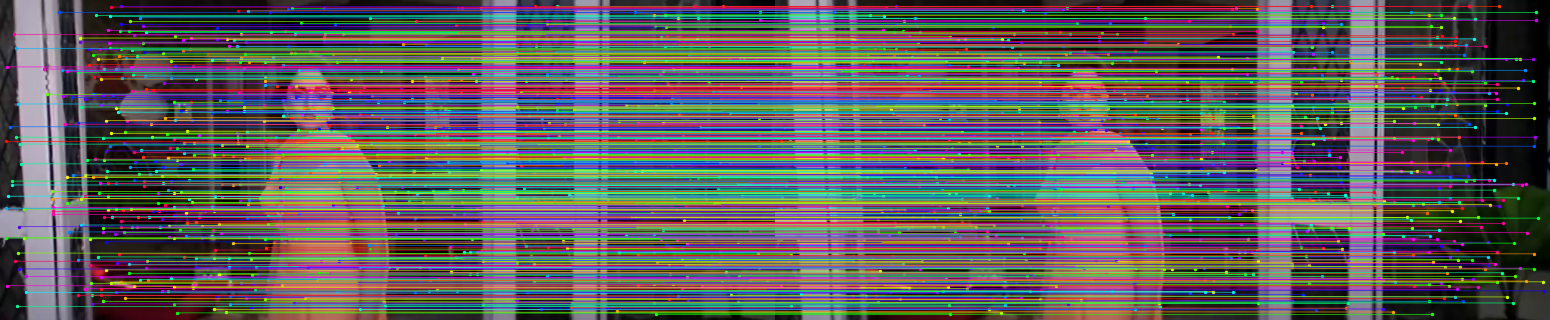
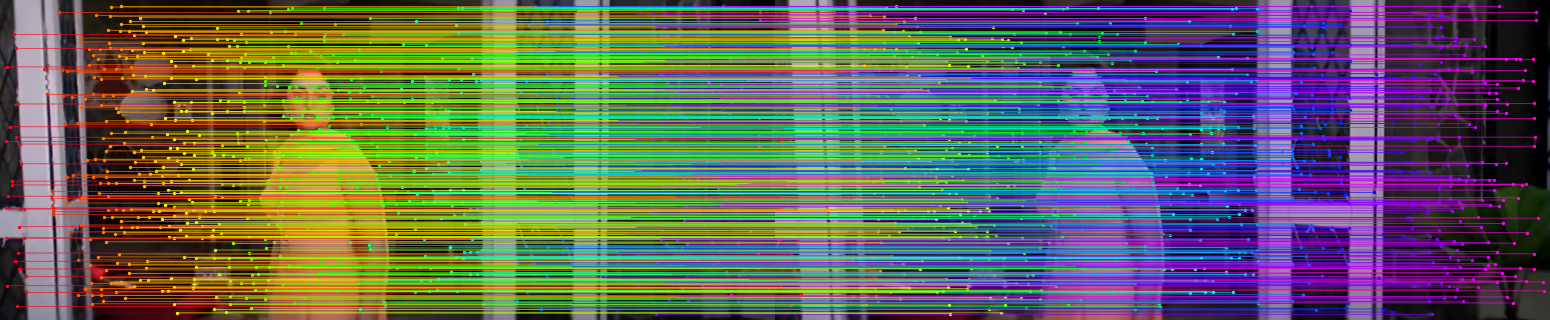
Update visualization to use rainbow color gradient based on x-coordinates

diff --git a/demo/scripts/extended_gap_analysis.py b/demo/scripts/extended_gap_analysis.py
@@ -130,10 +130,12 @@ def run_analysis():
         matched_kpts0 = kpts0[idx0]
         matched_kpts1 = kpts1[idx1]
         
-        # Use a colormap for colorful connections
-        cmap = plt.get_cmap('hsv')
-        vis_colors = cmap(np.linspace(0, 1, len(matched_kpts0)))
-        np.random.shuffle(vis_colors)
+        # Use a rainbow colormap based on x-coordinate of matched_kpts0
+        cmap = plt.get_cmap('gist_rainbow')
+        x0 = matched_kpts0[:, 0]
+        x0_min, x0_max = x0.min(), x0.max()
+        x0_norm = (x0 - x0_min) / (x0_max - x0_min + 1e-6)
+        vis_colors = cmap(x0_norm)
         
         for i, (p0, p1) in enumerate(zip(matched_kpts0, matched_kpts1)):
             plt.plot([p0[0], p1[0] + w0], [p0[1], p1[1]], color=vis_colors[i], linewidth=0.75, alpha=0.6)

diff --git a/demo/scripts/run_lightglue_jax_pipeline.py b/demo/scripts/run_lightglue_jax_pipeline.py
@@ -144,10 +144,13 @@ def run_pipeline():
     plt.imshow(combined_img)
     plt.axis('off')
     
-    # Use a colormap for colorful connections
-    cmap = plt.get_cmap('hsv')
-    colors = cmap(np.linspace(0, 1, len(matched_kpts0)))
-    np.random.shuffle(colors) # Shuffle to differentiate nearby points
+    # Use a rainbow colormap based on x-coordinate of kpts0
+    cmap = plt.get_cmap('gist_rainbow')
+    # Normalize x-coordinates to [0, 1] for colormap
+    x0 = matched_kpts0[:, 0]
+    x0_min, x0_max = x0.min(), x0.max()
+    x0_norm = (x0 - x0_min) / (x0_max - x0_min + 1e-6)
+    colors = cmap(x0_norm)
     
     for i, (p0, p1) in enumerate(zip(matched_kpts0, matched_kpts1)):
         plt.plot([p0[0], p1[0] + w0], [p0[1], p1[1]], color=colors[i], linewidth=0.75, alpha=0.6)
